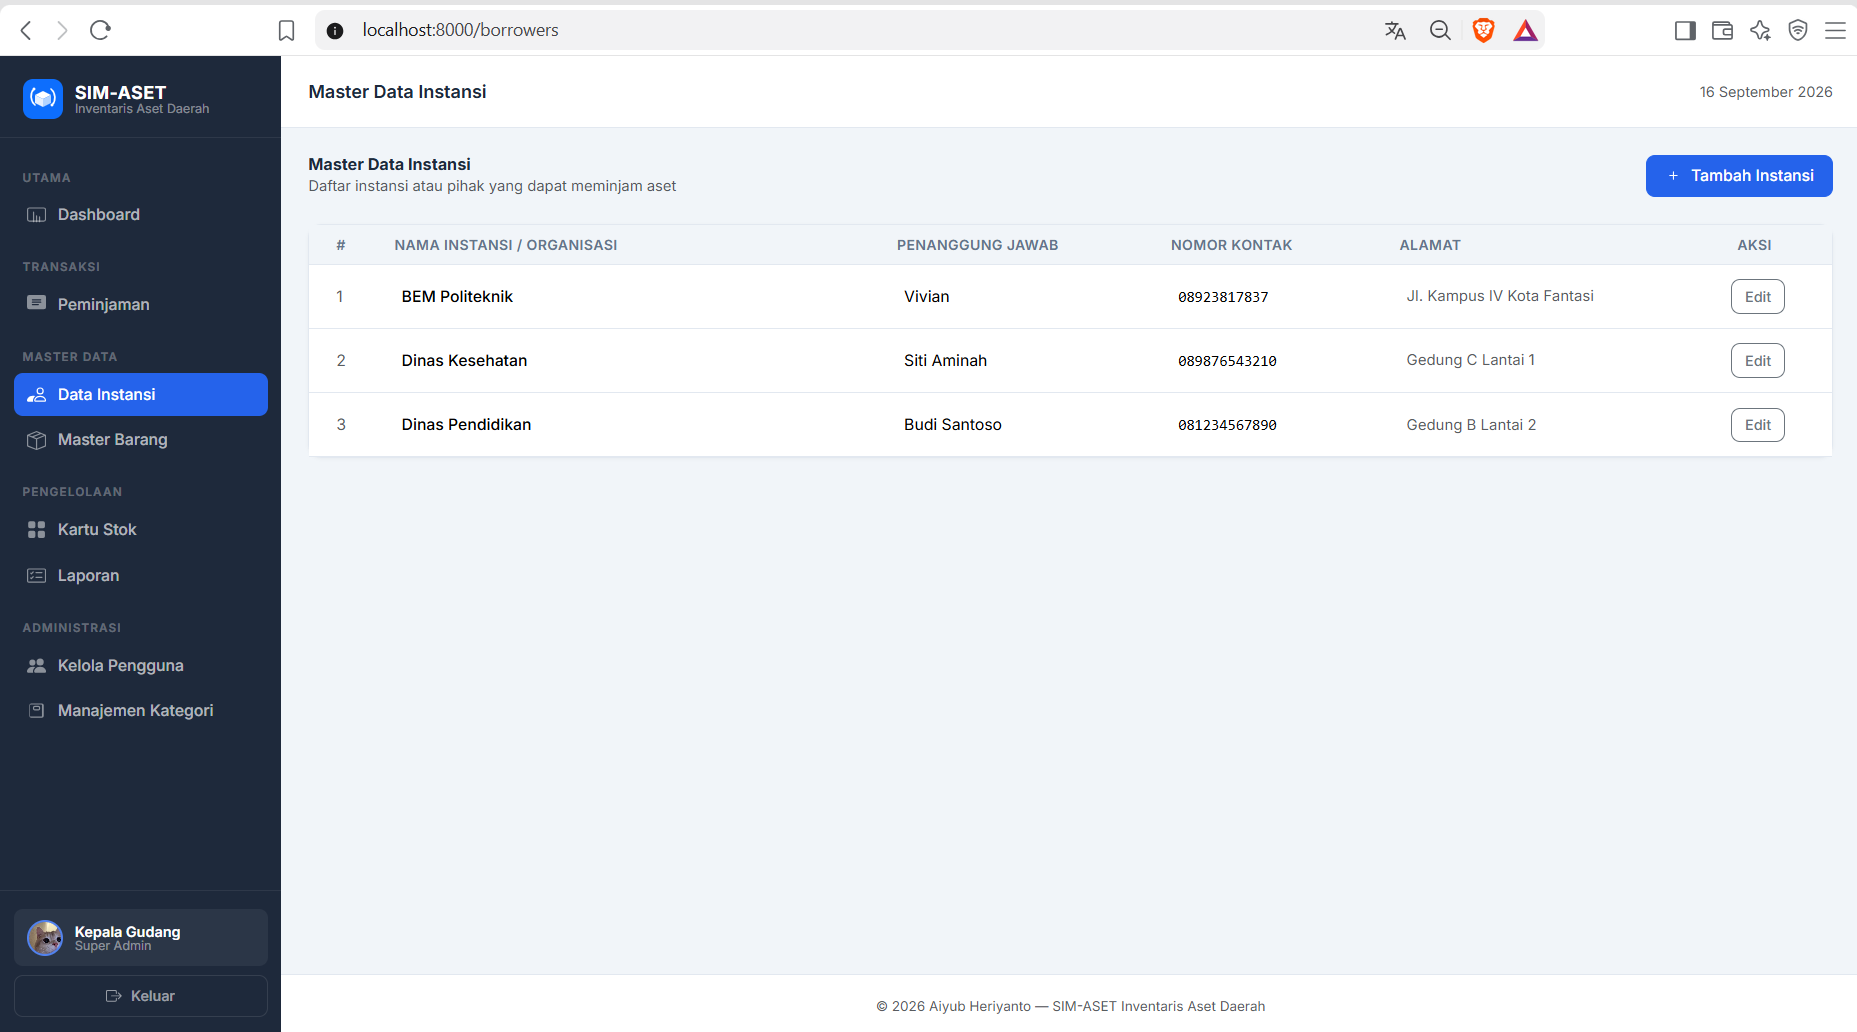
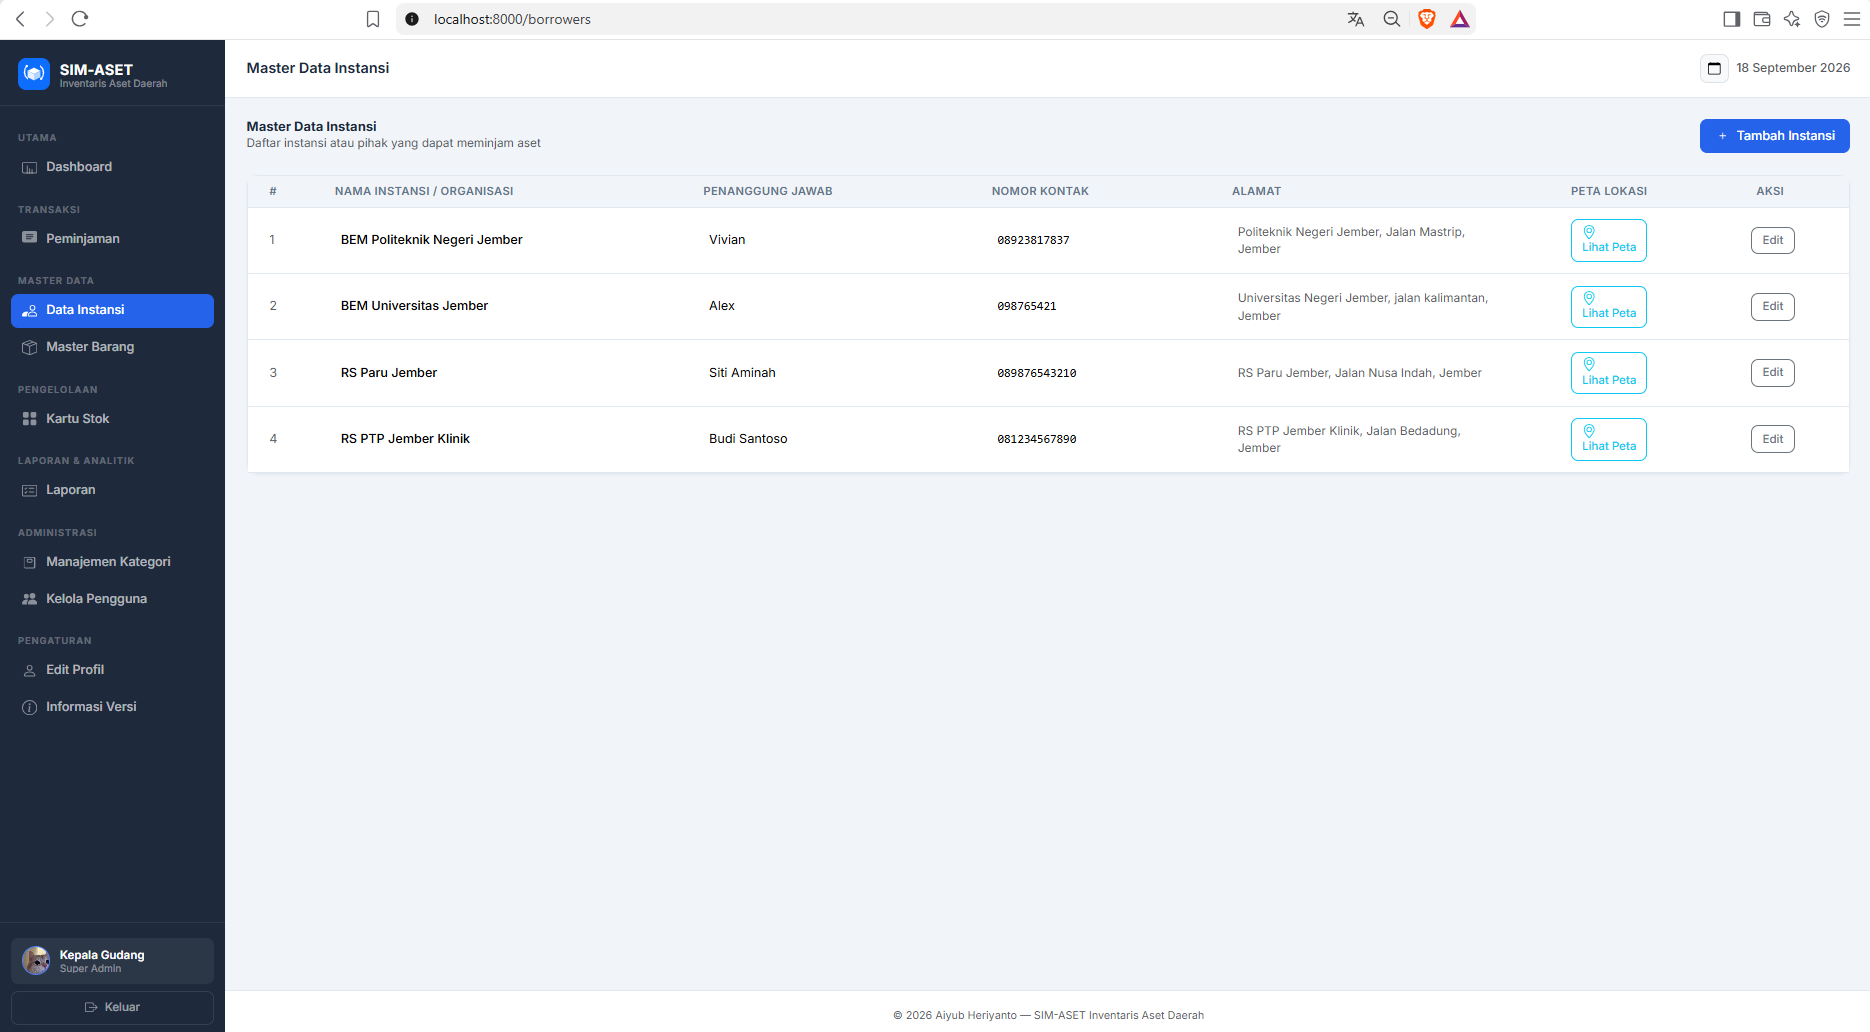
feat: implement dashboard feature with controller, views, layouts, and routes

diff --git a/resources/views/dashboard.blade.php b/resources/views/dashboard.blade.php
@@ -49,16 +49,36 @@
     <div class="row">
         <div class="col-lg-8">
             <div class="row mb-4">
+                <div class="col-md-6 mb-3">
+                    <div class="card bg-white text-dark h-100 border-0 shadow-sm" style="border-left: 4px solid #2563eb !important;">
+                        <div class="card-body d-flex justify-content-between align-items-center">
+                            <div>
+                                <h6 class="card-title text-muted mb-1" style="font-size: 0.8rem;">Total Barang</h6>
+                                <h3 class="mb-0 fw-bold">{{ number_format($totalItems) }}</h3>
+                            </div>
+                            <div style="font-size: 2rem; color: #2563eb; opacity: 0.8;"><i class="fa-solid fa-boxes-stacked"></i></div>
+                        </div>
+                    </div>
+                </div>
+                <div class="col-md-6 mb-3">
+                    <div class="card bg-white text-dark h-100 border-0 shadow-sm" style="border-left: 4px solid #16a34a !important;">
+                        <div class="card-body d-flex justify-content-between align-items-center">
+                            <div>
+                                <h6 class="card-title text-muted mb-1" style="font-size: 0.8rem;">Stok Fisik Keseluruhan</h6>
+                                <h3 class="mb-0 fw-bold">{{ number_format($totalStock) }}</h3>
+                            </div>
+                            <div style="font-size: 2rem; color: #16a34a; opacity: 0.8;"><i class="fa-solid fa-cubes"></i></div>
+                        </div>
+                    </div>
+                </div>
                 <div class="col-md-6 mb-3 mb-md-0">
                     <div class="card bg-warning text-dark h-100 border-0 shadow-sm">
                         <div class="card-body d-flex justify-content-between align-items-center">
                             <div>
-                                <h6 class="card-title text-black-50 mb-1">Peminjaman Aktif</h6>
-                                <h2 class="mb-0 fw-bold">{{ number_format($activeLoans) }}</h2>
+                                <h6 class="card-title text-black-50 mb-1">Peminjaman Aktif (Anda)</h6>
+                                <h3 class="mb-0 fw-bold">{{ number_format($activeLoans) }}</h3>
                             </div>
-                            <div style="font-size: 2.5rem; opacity: 0.2;">
-                                <i class="fa-solid fa-hand-holding-hand"></i>
-                            </div>
+                            <div style="font-size: 2rem; opacity: 0.2;"><i class="fa-solid fa-hand-holding-hand"></i></div>
                         </div>
                     </div>
                 </div>
@@ -67,11 +87,9 @@
                         <div class="card-body d-flex justify-content-between align-items-center">
                             <div>
                                 <h6 class="card-title text-white-50 mb-1">Peminjaman Terlambat</h6>
-                                <h2 class="mb-0 fw-bold">{{ number_format($overdueLoans) }}</h2>
+                                <h3 class="mb-0 fw-bold">{{ number_format($overdueLoans) }}</h3>
                             </div>
-                            <div style="font-size: 2.5rem; opacity: 0.3;">
-                                <i class="fa-solid fa-clock-rotate-left"></i>
-                            </div>
+                            <div style="font-size: 2rem; opacity: 0.3;"><i class="fa-solid fa-clock-rotate-left"></i></div>
                         </div>
                     </div>
                 </div>
@@ -145,7 +163,20 @@
 @else
     {{-- ADMIN & SUPER ADMIN LAYOUT --}}
     <div class="row mb-4">
-        <div class="col-md-3 col-6 mb-3 mb-md-0">
+        @if($isSuperAdmin)
+        <div class="col-lg col-md-4 col-6 mb-3 mb-lg-0">
+            <div class="card bg-info text-white h-100 border-0 shadow-sm">
+                <div class="card-body d-flex justify-content-between align-items-center">
+                    <div>
+                        <h6 class="card-title text-white-50 mb-1" style="font-size: 0.8rem;">Total Pengguna</h6>
+                        <h3 class="mb-0 fw-bold">{{ number_format($totalUsers) }}</h3>
+                    </div>
+                    <div style="font-size: 2rem; opacity: 0.3;"><i class="fa-solid fa-users"></i></div>
+                </div>
+            </div>
+        </div>
+        @endif
+        <div class="col-lg col-md-4 col-6 mb-3 mb-lg-0">
             <div class="card bg-primary text-white h-100 border-0 shadow-sm">
                 <div class="card-body d-flex justify-content-between align-items-center">
                     <div>
@@ -156,7 +187,7 @@
                 </div>
             </div>
         </div>
-        <div class="col-md-3 col-6 mb-3 mb-md-0">
+        <div class="col-lg col-md-4 col-6 mb-3 mb-lg-0">
             <div class="card bg-success text-white h-100 border-0 shadow-sm">
                 <div class="card-body d-flex justify-content-between align-items-center">
                     <div>
@@ -167,7 +198,7 @@
                 </div>
             </div>
         </div>
-        <div class="col-md-3 col-6">
+        <div class="col-lg col-md-6 col-6 mb-3 mb-lg-0">
             <div class="card bg-warning text-dark h-100 border-0 shadow-sm">
                 <div class="card-body d-flex justify-content-between align-items-center">
                     <div>
@@ -178,7 +209,7 @@
                 </div>
             </div>
         </div>
-        <div class="col-md-3 col-6">
+        <div class="col-lg col-md-6 col-12">
             <div class="card bg-danger text-white h-100 border-0 shadow-sm">
                 <div class="card-body d-flex justify-content-between align-items-center">
                     <div>

diff --git a/resources/views/layouts/app.blade.php b/resources/views/layouts/app.blade.php
@@ -423,8 +423,19 @@
                 Laporan
             </a>
 
-            @role('Super Admin')
+            @hasanyrole('Super Admin|Admin')
             <div class="nav-section-label" style="margin-top:.5rem;">Administrasi</div>
+            <a href="{{ route('categories.index') }}"
+               class="sidebar-link {{ request()->routeIs('categories.*') ? 'active' : '' }}">
+                <svg xmlns="http://www.w3.org/2000/svg" width="17" height="17" fill="currentColor" viewBox="0 0 16 16">
+                    <path fill-rule="evenodd" d="M3.5 2a1.5 1.5 0 0 0-1.5 1.5v9A1.5 1.5 0 0 0 3.5 14h9a1.5 1.5 0 0 0 1.5-1.5v-9A1.5 1.5 0 0 0 12.5 2h-9zM2.5 3.5a.5.5 0 0 1 .5-.5h9a.5.5 0 0 1 .5.5v9a.5.5 0 0 1-.5.5h-9a.5.5 0 0 1-.5-.5v-9z"/>
+                    <path fill-rule="evenodd" d="M6.5 5a.5.5 0 0 0-.5.5v1a.5.5 0 0 0 .5.5h3a.5.5 0 0 0 .5-.5v-1a.5.5 0 0 0-.5-.5h-3zM5 5.5A1.5 1.5 0 0 1 6.5 4h3A1.5 1.5 0 0 1 11 5.5v1A1.5 1.5 0 0 1 9.5 8h-3A1.5 1.5 0 0 1 5 6.5v-1z"/>
+                </svg>
+                Manajemen Kategori
+            </a>
+            @endhasanyrole
+
+            @role('Super Admin')
             <a href="{{ route('users.index') }}"
                class="sidebar-link {{ request()->routeIs('users.*') ? 'active' : '' }}">
                 <svg xmlns="http://www.w3.org/2000/svg" width="17" height="17" fill="currentColor" viewBox="0 0 16 16">
@@ -433,15 +444,6 @@
                     <path d="M4.5 8a2.5 2.5 0 1 0 0-5 2.5 2.5 0 0 0 0 5z"/>
                 </svg>
                 Kelola Pengguna
-            </a>
-            
-            <a href="{{ route('categories.index') }}"
-               class="sidebar-link {{ request()->routeIs('categories.*') ? 'active' : '' }}">
-                <svg xmlns="http://www.w3.org/2000/svg" width="17" height="17" fill="currentColor" viewBox="0 0 16 16">
-                    <path fill-rule="evenodd" d="M3.5 2a1.5 1.5 0 0 0-1.5 1.5v9A1.5 1.5 0 0 0 3.5 14h9a1.5 1.5 0 0 0 1.5-1.5v-9A1.5 1.5 0 0 0 12.5 2h-9zM2.5 3.5a.5.5 0 0 1 .5-.5h9a.5.5 0 0 1 .5.5v9a.5.5 0 0 1-.5.5h-9a.5.5 0 0 1-.5-.5v-9z"/>
-                    <path fill-rule="evenodd" d="M6.5 5a.5.5 0 0 0-.5.5v1a.5.5 0 0 0 .5.5h3a.5.5 0 0 0 .5-.5v-1a.5.5 0 0 0-.5-.5h-3zM5 5.5A1.5 1.5 0 0 1 6.5 4h3A1.5 1.5 0 0 1 11 5.5v1A1.5 1.5 0 0 1 9.5 8h-3A1.5 1.5 0 0 1 5 6.5v-1z"/>
-                </svg>
-                Manajemen Kategori
             </a>
             @endrole
 

diff --git a/routes/web.php b/routes/web.php
@@ -84,8 +84,8 @@ Route::middleware(['auth'])->group(function () {
         Route::put('/{user}',      [UserController::class, 'update'])->name('update');
     });
 
-    // ── MODUL KATEGORI (Super Admin saja) ────────────────────────────────
-    Route::middleware(['role:Super Admin'])->prefix('categories')->name('categories.')->group(function () {
+    // ── MODUL KATEGORI (Super Admin & Admin) ────────────────────────────────
+    Route::middleware(['role:Super Admin|Admin'])->prefix('categories')->name('categories.')->group(function () {
         Route::get('/',            [CategoryController::class, 'index'])->name('index');
         Route::post('/',           [CategoryController::class, 'store'])->name('store');
         Route::put('/{category}',  [CategoryController::class, 'update'])->name('update');

diff --git a/app/Http/Controllers/DashboardController.php b/app/Http/Controllers/DashboardController.php
@@ -26,6 +26,7 @@ class DashboardController extends Controller
         $totalStock = Item::sum('total_qty');
         $activeLoans = (clone $loanQuery)->where('status', 'active')->count();
         $overdueLoans = (clone $loanQuery)->where('status', 'active')->where('due_date', '<', now())->count();
+        $totalUsers = \App\Models\User::count();
         
         $recentMovements = $isStaff ? collect() : StockMovement::with(['item', 'user'])->latest()->take(5)->get();
         $recentLoans = (clone $loanQuery)->with(['borrower', 'user'])->latest()->take(5)->get();
@@ -97,6 +98,7 @@ class DashboardController extends Controller
             'totalStock', 
             'activeLoans', 
             'overdueLoans',
+            'totalUsers',
             'recentMovements',
             'recentLoans',
             'lowStockItems',

diff --git a/resources/views/settings/version.blade.php b/resources/views/settings/version.blade.php
@@ -20,8 +20,8 @@
                 <div class="text-start bg-light p-4 rounded text-muted" style="font-size: 0.9rem;">
                     <p class="mb-2"><strong>Platform:</strong> Laravel 12.x / PHP 8.2+</p>
                     <p class="mb-2"><strong>Frontend:</strong> Bootstrap 5, Blade, TomSelect</p>
-                    <p class="mb-2"><strong>Lisensi:</strong> Internal Use Only</p>
-                    <p class="mb-0"><strong>Pengembang:</strong> Aiyub Heriyanto</p>
+                    <p class="mb-2"><strong>Lisensi:</strong> Free Open-Source</p>
+                    <p class="mb-0"><strong>Dibuat Oleh:</strong> Aiyub Heriyanto</p>
                 </div>
             </div>
             <div class="card-footer bg-white text-center py-3 text-muted" style="font-size: 0.85rem;">

diff --git a/README.md b/README.md
@@ -78,6 +78,9 @@ Koleksi pratinjau visual dari modul operasional di dalam aplikasi:
 ### Daftar Peminjam
 ![Preview Daftar Peminjam](docs/images/borrowersv3.png)
 
+### Map Peminjam
+![Preview Map Peminjam](docs/images/mappopupv3.png)
+
 ### Daftar Peminjaman
 ![Preview Daftar Peminjaman](docs/images/loansv3.png)
 
